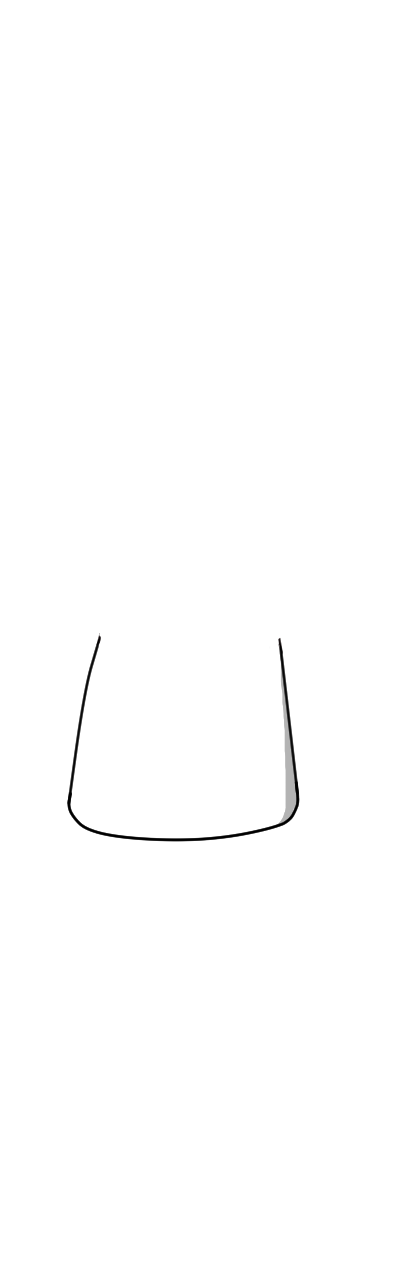
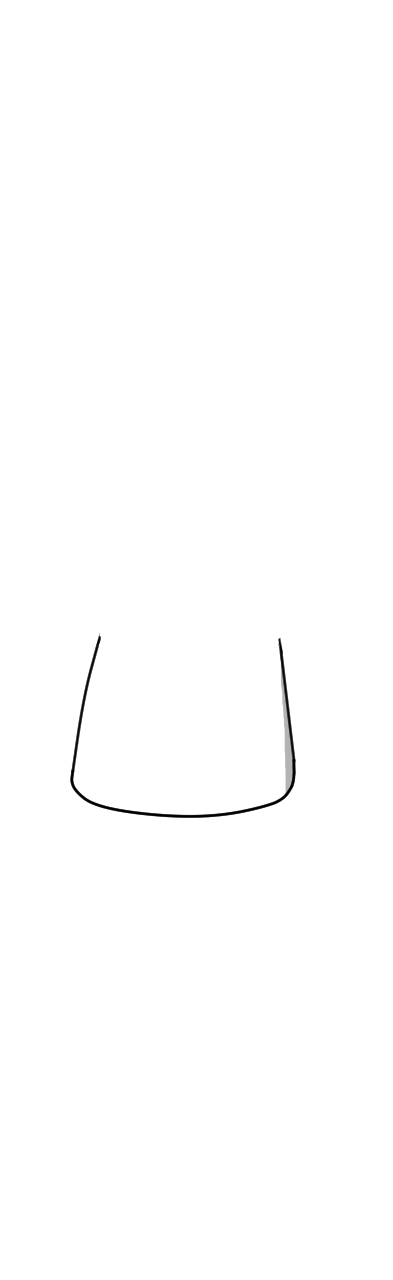
added puffy skirt

Changed region(s): [[0.1527, 0.5625, 0.7634, 0.6562], [0.2137, 0.5, 0.2443, 0.5312]]

diff --git a/code/generated.js b/code/generated.js
@@ -55,7 +55,8 @@ const top_list_d_dec = [["square","gathered","low vee",],["square","gathered","l
 const top_chest_list_d = [["none","small","medium","big",],["none",],[],[],[],true];
 const overshirt_sleeve_list_d = [["sleeveless","short","long",],["sleeveless","short","long",],[],[],[],true];
 const coat_sleeve_list_d = [["sleeveless","short","scrunched","long","long blocky","broad","trailing",],["sleeveless","short","scrunched","long","long blocky","broad","trailing",],["broad","trailing",],[],[],true];
-const bottom_list_d = [["none","briefs","short skirt","medium skirt","long skirt","short kilt","kilt","long kilt","tube skirt",],["none","briefs","shorts","breeches","trousers",],["breeches","tube skirt","briefs","long kilt",],[],[],false];
+const bottom_list_d = [["none","briefs","short skirt","medium skirt","long skirt","puffy short kilt","short kilt","kilt","long kilt","tube skirt",],["none","briefs","shorts","breeches","trousers",],["breeches","tube skirt","briefs","long kilt",],["puffy short kilt",],[],false];
+const bottom_list_d_dec = [["puffy short kilt",],["puffy short kilt",],[],[],[],true];
 const waistline_list_d = [["invisible","gathered","button fly","double pointed","low","high","empire","band","pointed",],["invisible","gathered","button fly","double pointed","suspenders","fall front","overalls","belt",],["fall front","empire","pointed",],["suspenders","belt",],[],true];
 const waistline_list_d_dec = [["suspenders","belt",],["suspenders","belt",],[],[],[],true];
 const neckwear_list_d = [["none","beaded necklace","choker","pendant","jewelled necklace","beads","bow","fur collar","none","cravat bow","bandanna","scarf","kerchief","long scarf","chains","amulet",],["none","cravat bow","bandanna","scarf","kerchief","long scarf","chains","amulet","cravat","tie","bow tie",],["cravat bow","bandanna","chains","amulet",],["jewelled necklace","beaded necklace","amulet",],[],true];
@@ -96,7 +97,8 @@ const hat_front_list_d = [["none","flower","flower crown","bandanna","hijab","cr
 const hat_front_list_d_dec = [["bowler","broad hat","fedora","witch hat","top hat","crown",],["bowler","broad hat","fedora","witch hat","top hat","crown",],[],[],[],true];
 const wheelchair_list_d = [["none","manual","old fashioned",],["none","manual","old fashioned",],["old fashioned",],[],[],true];
 const wheelchair_leg_list_d = [["none","regular",],["none","regular",],[],[],[],true];
-const wheelchair_bottom_list_d = [["none","briefs","short skirt","medium skirt","long skirt","short kilt","kilt","long kilt","tube skirt",],["none","briefs","shorts","breeches","trousers",],["breeches","tube skirt","briefs","long kilt",],[],[],false];
+const wheelchair_bottom_list_d = [["none","briefs","short skirt","medium skirt","long skirt","puffy short kilt","short kilt","kilt","long kilt","tube skirt",],["none","briefs","shorts","breeches","trousers",],["breeches","tube skirt","briefs","long kilt",],["puffy short kilt",],[],false];
+const wheelchair_bottom_list_d_dec = [["puffy short kilt",],["puffy short kilt",],[],[],[],true];
 const wheelchair_coat_list_d = [["none","medium cloak","long jacket closed","dress jacket","jama",],["none","medium cloak","long jacket closed","dress jacket","jama",],[],[],[],true];
 
 add_image_object("wheelchair_back",wheelchair_list_d,"wheelchair")
@@ -132,6 +134,7 @@ add_image_object("coat_sleeves",coat_sleeve_list_d,"clothes/coat")
 add_defining_object("coat_sleeves",coat_sleeve_list_d)
 add_image_object("bottom",bottom_list_d,"clothes")
 add_defining_object("bottom",bottom_list_d)
+add_image_object("bottom_dec",bottom_list_d_dec,"clothes")
 add_image_object("waistline",waistline_list_d,"clothes")
 add_defining_object("waistline",waistline_list_d)
 add_image_object("waistline_dec",waistline_list_d_dec,"clothes")
@@ -191,6 +194,7 @@ add_image_object("wheelchair",wheelchair_list_d,"wheelchair")
 add_defining_object("wheelchair",wheelchair_list_d)
 add_image_object("wheelchair_legs",wheelchair_leg_list_d,"wheelchair")
 add_image_object("wheelchair_bottom",wheelchair_bottom_list_d,"wheelchair")
+add_image_object("wheelchair_bottom_dec",wheelchair_bottom_list_d_dec,"wheelchair")
 add_image_object("wheelchair_coat",wheelchair_coat_list_d,"wheelchair")
 add_defining_object("hat",hat_list)
 
@@ -341,7 +345,7 @@ const expression_preset_defining_list=[
 
 ];
 
-const character_preset_list = ["Detective","Movie Star",];
+const character_preset_list = ["Detective","Movie Star","Middle School Girl",];
 const character_preset_defining_list=[
 {current_defining_objects:[
 {name:'back',value_list:[0,0,0,0,0,0,0,0,0,0],colour1:'#2d2b21',colour2:'#0D6759',patterncolour:'#96b064',pattern:0},
@@ -413,6 +417,42 @@ const character_preset_defining_list=[
 {name:'hat',value_list:[0,0,0,0,0,0,0,0,0,0],colour1:'#e7d083',colour2:'#2c5b8a',patterncolour:'#C7EDE8',pattern:11}],ui_variables_object:
 {dark_theme:false,current_tab_type:3,current_expression_type:0,current_clothingname:0,current_accessoryname:1,current_export_image_type:0,current_gender_type:0,current_size_type:0,current_head_ratio_type:0,crop_height:300,current_effect_type:0,effect_colour:'#000000',current_character_preset:1,current_expression_preset:0,isWeirdOutfit:false,isWeirdBody:false},defining_variables_object:
 {current_eyetype:5,current_hairstyle:28,current_waist_type:1}},
+
+
+{current_defining_objects:[
+{name:'back',value_list:[0,0,0,0,0,0,0,0,0,0],colour1:'#C5E0DC',colour2:'#774F38',patterncolour:'#ECE5CE',pattern:0},
+{name:'hair_extra',value_list:[0,0,0,0,0,0,0,0,0,0],colour1:'#FF0000',colour2:'#00FF00',patterncolour:'#0000FF',pattern:0},
+{name:'body',value_list:[0,0,0,0,0,0,0,0,0,0],colour1:'#FF0000',colour2:'#00FF00',patterncolour:'#0000FF',pattern:0},
+{name:'body_chest',value_list:[1,1,1,1,1,1,1,1,1,1],colour1:'#FF0000',colour2:'#00FF00',patterncolour:'#0000FF',pattern:0},
+{name:'socks',value_list:[3,3,3,3,3,3,3,3,3,3],colour1:'#fffaf8',colour2:'#F1D4AF',patterncolour:'#F1D4AF',pattern:0},
+{name:'shoes',value_list:[2,2,2,2,2,2,2,2,2,2],colour1:'#71503b',colour2:'#C5E0DC',patterncolour:'#E08E79',pattern:0},
+{name:'gloves',value_list:[0,0,0,0,0,0,0,0,0,0],colour1:'#F1D4AF',colour2:'#E08E79',patterncolour:'#E08E79',pattern:0},
+{name:'top_sleeves',value_list:[1,1,1,1,1,1,1,1,1,1],colour1:'#FF0000',colour2:'#00FF00',patterncolour:'#0000FF',pattern:0},
+{name:'top',value_list:[7,7,7,7,7,7,7,7,7,7],colour1:'#fffaf8',colour2:'#2c5b8a',patterncolour:'#E08E79',pattern:0},
+{name:'overshirt_sleeves',value_list:[2,2,2,2,2,2,2,2,2,2],colour1:'#FF0000',colour2:'#00FF00',patterncolour:'#0000FF',pattern:0},
+{name:'coat_sleeves',value_list:[2,2,2,2,2,2,2,2,2,2],colour1:'#FF0000',colour2:'#00FF00',patterncolour:'#0000FF',pattern:0},
+{name:'bottom',value_list:[6,6,6,6,6,6,6,6,6,6],colour1:'#2c5b8a',colour2:'#E08E79',patterncolour:'#d71222',pattern:12},
+{name:'waistline',value_list:[8,8,8,8,8,8,8,8,8,8],colour1:'#FF0000',colour2:'#00FF00',patterncolour:'#0000FF',pattern:0},
+{name:'neckwear',value_list:[4,4,4,4,4,4,4,4,4,4],colour1:'#c2515a',colour2:'#774F38',patterncolour:'#E08E79',pattern:0},
+{name:'overshirt',value_list:[0,0,0,0,0,0,0,0,0,0],colour1:'#C5E0DC',colour2:'#774F38',patterncolour:'#F1D4AF',pattern:0},
+{name:'coat',value_list:[0,0,0,0,0,0,0,0,0,0],colour1:'#E08E79',colour2:'#774F38',patterncolour:'#F1D4AF',pattern:7},
+{name:'sidelocks',value_list:[5,5,5,5,5,5,5,5,5,5],colour1:'#FF0000',colour2:'#00FF00',patterncolour:'#0000FF',pattern:0},
+{name:'head',value_list:[0,0,0,0,0,0,0,0,0,0],colour1:'#f3ca9e',colour2:'#00FF00',patterncolour:'#0000FF',pattern:0},
+{name:'ears',value_list:[1,1,1,1,1,1,1,1,1,1],colour1:'#FF0000',colour2:'#00FF00',patterncolour:'#0000FF',pattern:0},
+{name:'earrings',value_list:[1,1,1,1,1,1,1,1,1,1],colour1:'#C5E0DC',colour2:'#ECE5CE',patterncolour:'#774F38',pattern:0},
+{name:'nose',value_list:[3,3,3,3,3,3,3,3,3,3],colour1:'#FF0000',colour2:'#00FF00',patterncolour:'#0000FF',pattern:0},
+{name:'complexion',value_list:[2,2,2,2,2,2,2,2,2,2],colour1:'#FF0000',colour2:'#00FF00',patterncolour:'#0000FF',pattern:0},
+{name:'cheeks',value_list:[0,0,0,0,0,1,0,0,0,0],colour1:'#FF0000',colour2:'#00FF00',patterncolour:'#0000FF',pattern:0},
+{name:'mouth',value_list:[16,0,33,28,21,13,25,36,7,8],colour1:'#FF0000',colour2:'#00FF00',patterncolour:'#0000FF',pattern:0},
+{name:'eyebrows',value_list:[8,11,4,16,11,4,4,2,18,0],colour1:'#FF0000',colour2:'#00FF00',patterncolour:'#0000FF',pattern:0},
+{name:'eyes',value_list:[0,2,5,8,6,4,6,3,0,0],colour1:'#8a452b',colour2:'#00FF00',patterncolour:'#0000FF',pattern:0},
+{name:'facial_hair',value_list:[0,0,0,0,0,0,0,0,0,0],colour1:'#FF0000',colour2:'#00FF00',patterncolour:'#0000FF',pattern:0},
+{name:'eyewear',value_list:[0,0,0,0,0,0,0,0,0,0],colour1:'#0a1520',colour2:'#C5E0DC',patterncolour:'#F1D4AF',pattern:0},
+{name:'fringe',value_list:[5,5,5,5,5,5,5,5,5,5],colour1:'#3d1f48',colour2:'#00FF00',patterncolour:'#0000FF',pattern:0},
+{name:'wheelchair',value_list:[0,0,0,0,0,0,0,0,0,0],colour1:'#FF0000',colour2:'#00FF00',patterncolour:'#0000FF',pattern:0},
+{name:'hat',value_list:[16,16,16,16,16,16,16,16,16,16],colour1:'#c15059',colour2:'#ECE5CE',patterncolour:'#E08E79',pattern:0}],ui_variables_object:
+{dark_theme:false,current_tab_type:3,current_expression_type:0,current_clothingname:3,current_accessoryname:4,current_export_image_type:0,current_gender_type:2,current_size_type:0,current_head_ratio_type:0,crop_height:'0',current_effect_type:0,effect_colour:'#000000',current_character_preset:0,current_expression_preset:2,isWeirdOutfit:false,isWeirdBody:false},defining_variables_object:
+{current_eyetype:0,current_hairstyle:17,current_waist_type:0}},
 
 ];
 

diff --git a/code/alpine_functions.js b/code/alpine_functions.js
@@ -510,9 +510,15 @@ transferDefiningValues(preset_index,preset_defining_list, property_list){
                     this.current_defining_objects[i].value_list = listOf(0);
                 } Want to remove ugly ties but it's troublesome */ 
                 if (["wheelchair"].includes(defining_objects[i].name))//just while fixing clothes 
-                    this.current_defining_objects[i].value_list = listOf(0);  
-            }
+                    this.current_defining_objects[i].value_list = listOf(0); 
+
+                //remove coat if wearing a puffy skirt    
+                }
         }
+        //remove coat if wearing a puffy skirt
+        b_index = findDefiningIndex("bottom")
+        if (defining_objects[b_index].item_list[this.current_defining_objects[b_index].value_list[0]].includes("puffy"))
+            this.current_defining_objects[findDefiningIndex("coat")].value_list = listOf(0);
             
     },
     randomiseAll(gender){

diff --git a/code/generate_images.py b/code/generate_images.py
@@ -151,11 +151,11 @@ overshirt_sleeve_list_w = []
 overshirt_sleeve_list_d = [overshirt_sleeve_list_f, overshirt_sleeve_list_m, overshirt_sleeve_list_w,[],[],True]
 
 bottom_list_u = ["none","briefs",]
-bottom_list_f = bottom_list_u+["short skirt","medium skirt","long skirt","short kilt","kilt","long kilt", "tube skirt",]
+bottom_list_f = bottom_list_u+["short skirt","medium skirt","long skirt","puffy short kilt","short kilt","kilt","long kilt", "tube skirt",]
 bottom_list_m = bottom_list_u+["shorts", "breeches","trousers",]
 bottom_list_w = ["breeches","tube skirt","briefs","long kilt",]
-bottom_list_decs = []
-bottom_list_d = [bottom_list_f, bottom_list_m, bottom_list_w,[],[],False]
+bottom_list_decs = ["puffy short kilt"]
+bottom_list_d = [bottom_list_f, bottom_list_m, bottom_list_w,bottom_list_decs,[],False]
 
 waistline_list_u=["invisible","gathered","button fly","double pointed"]
 waistline_list_f = waistline_list_u+["low","high","empire","band","pointed"]
@@ -470,7 +470,7 @@ def write_variables():
     expression_preset_list =  ["Default", "Understated", "Energetic","Arch"] 
     content.write(list_string("expression_preset_list", expression_preset_list))  
     content.write(presetString("expression", expression_preset_list))
-    character_preset_list =  ["Detective", "Movie Star"] 
+    character_preset_list =  ["Detective", "Movie Star","Middle School Girl"] 
     content.write(list_string("character_preset_list", character_preset_list))  
     content.write(presetString("character", character_preset_list))    
     content.close()
@@ -587,7 +587,7 @@ def runStuff():
     #"back","socks","shoes","gloves"
     
     for c in closet:
-        if c.name in ["top"]:
+        if c.name in ["bottom"]:
             process_portrait_part(c)
 
     makeHourglass()        
